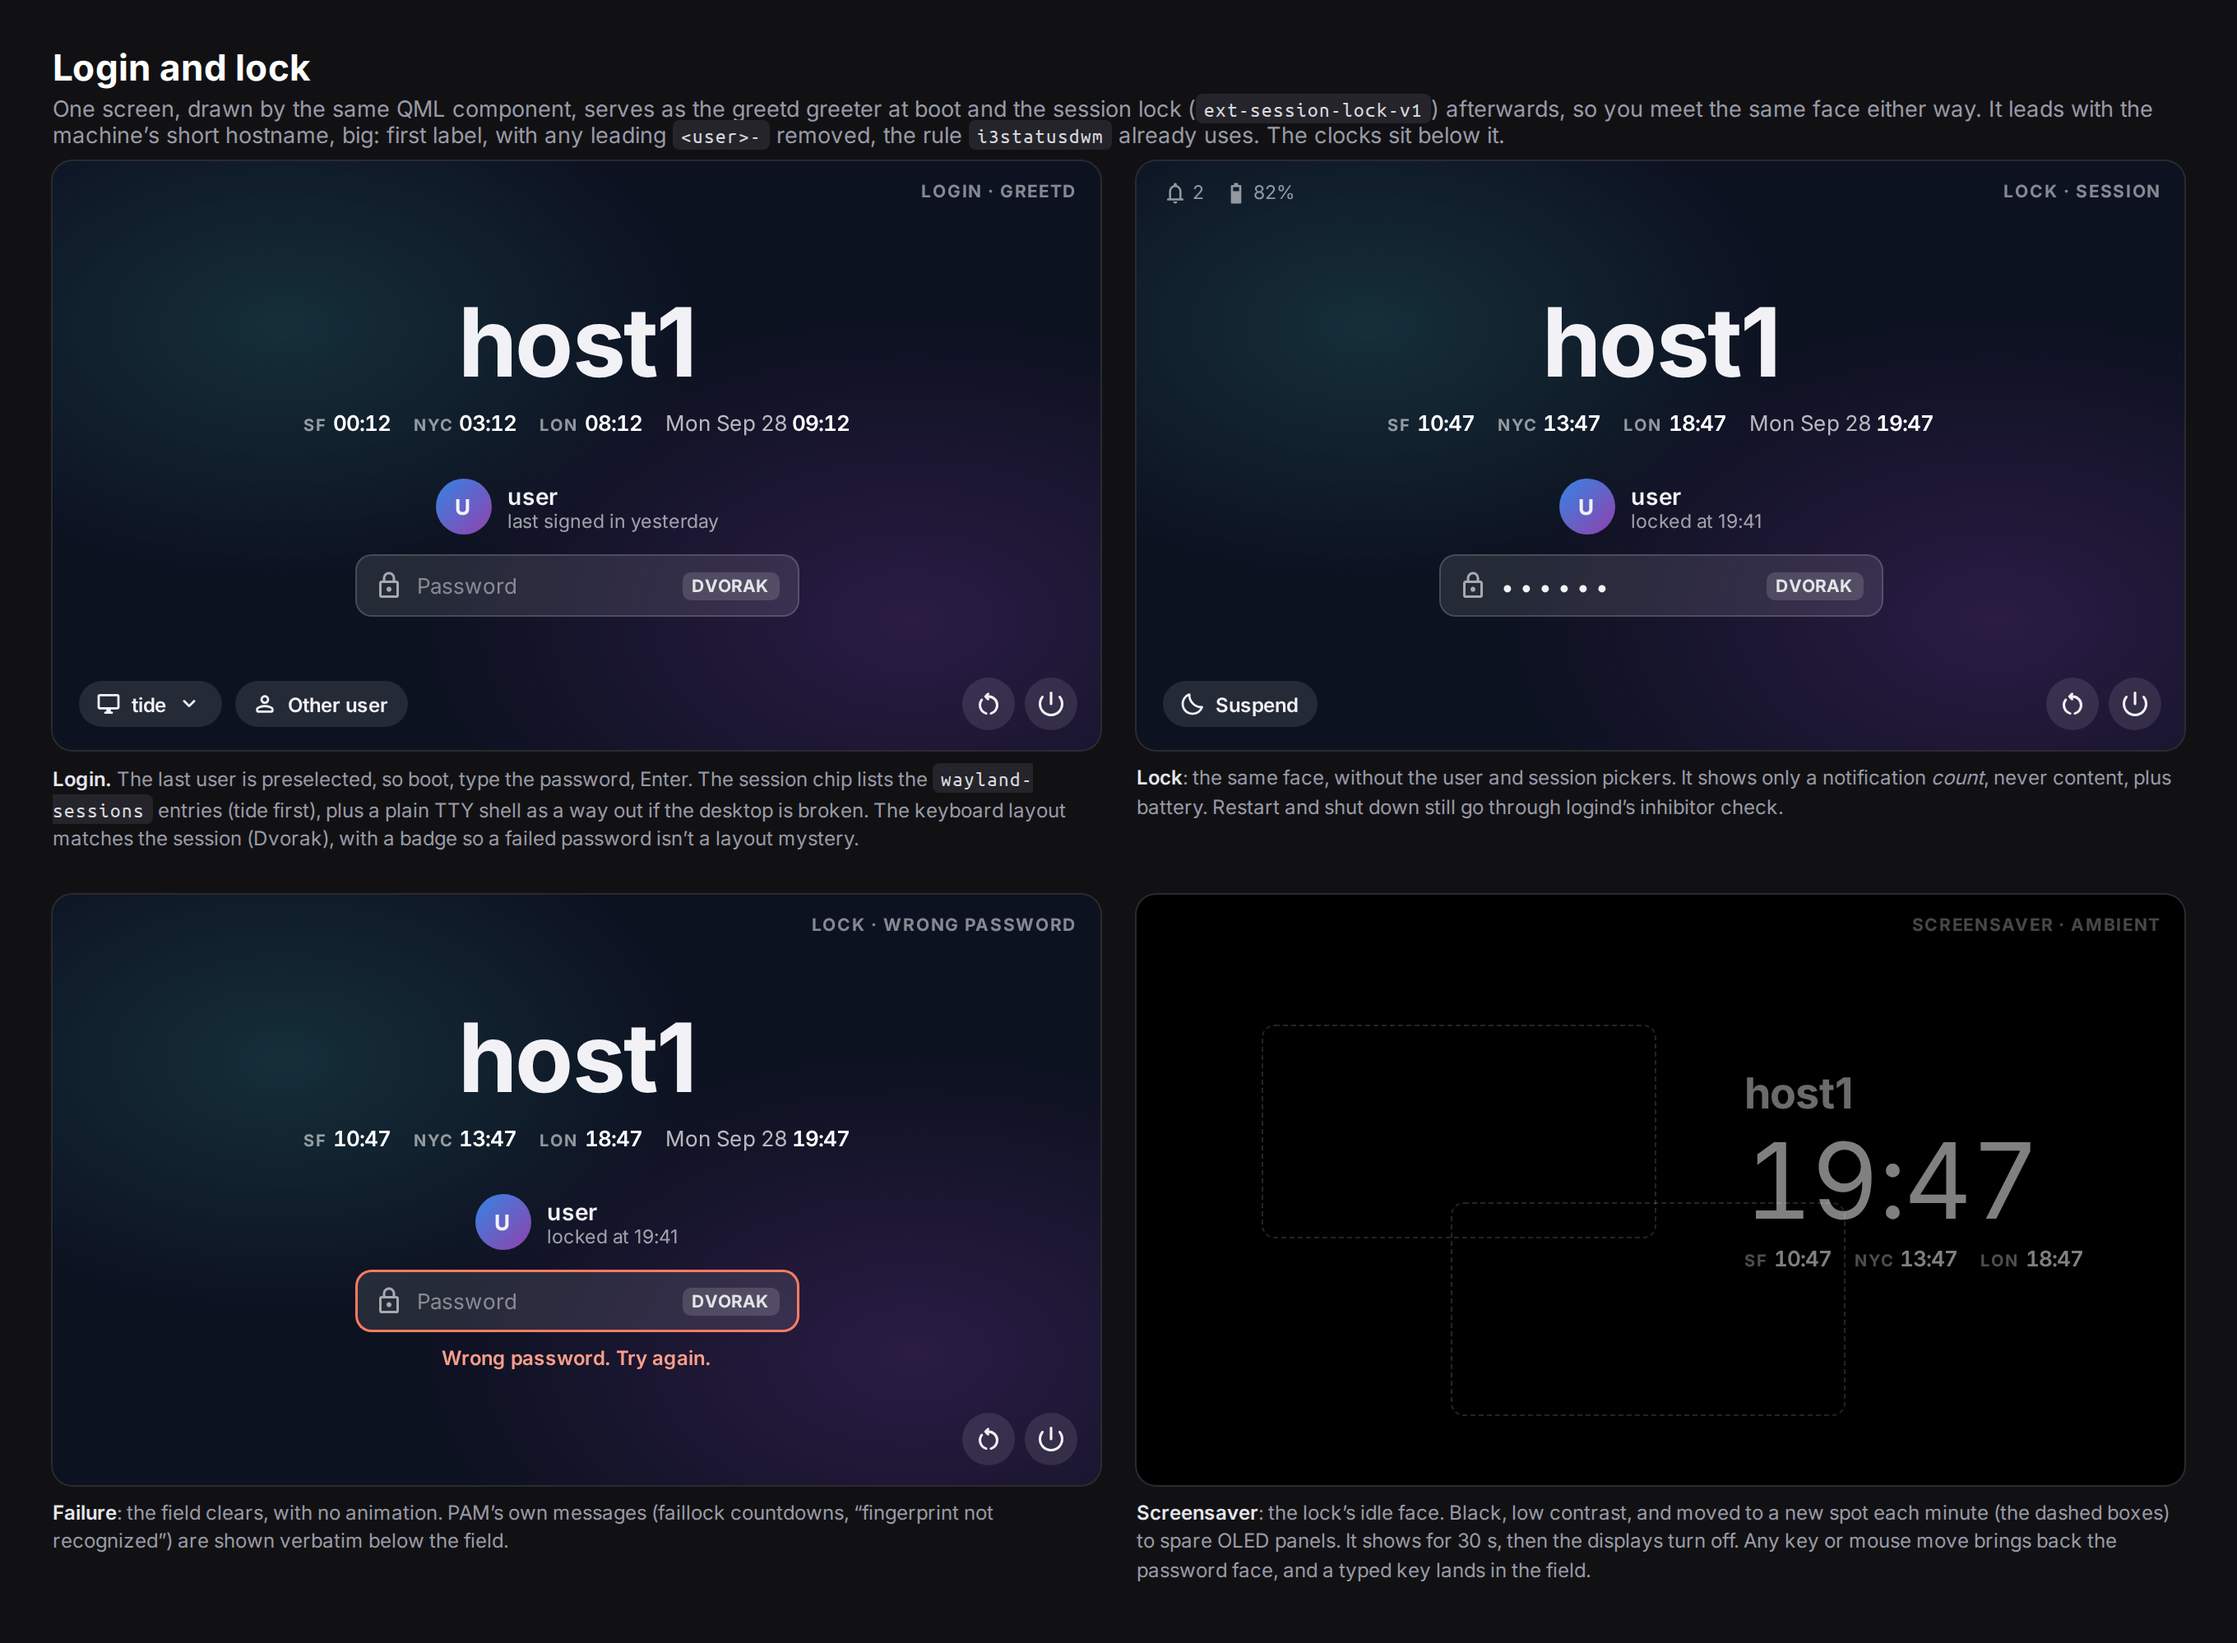
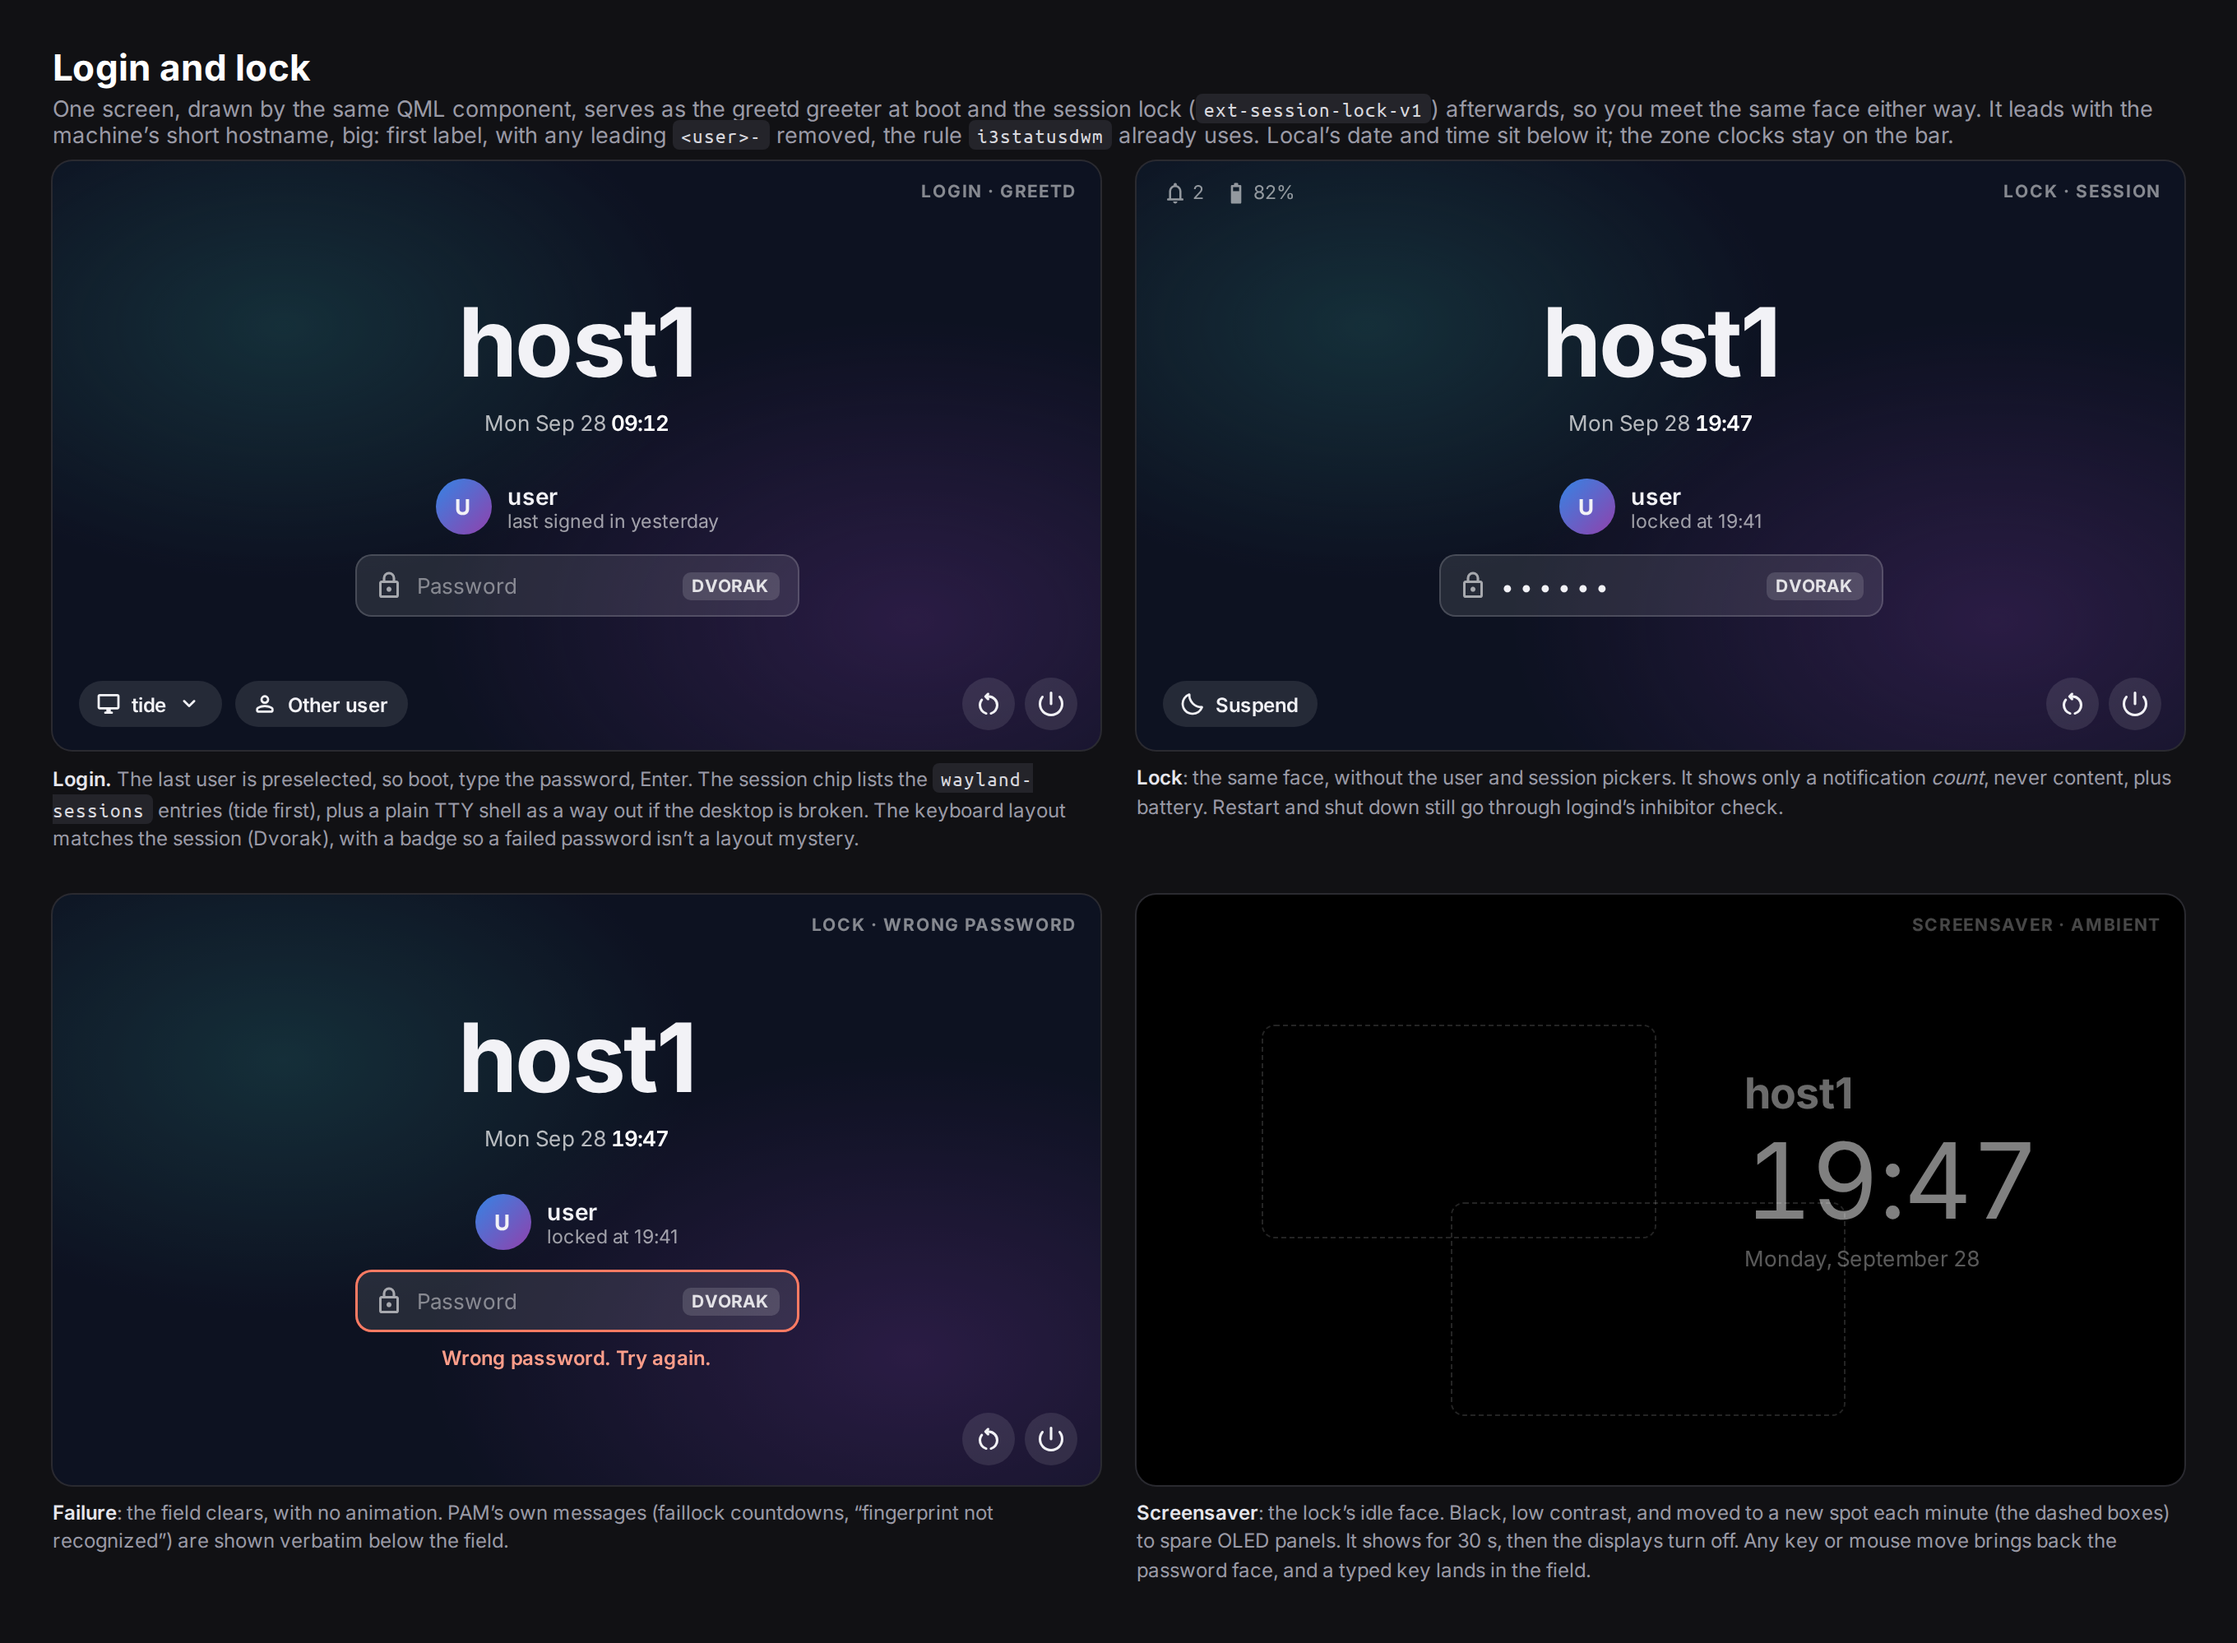
Show only local's date and time on the login and lock screens
The maintainer settled it: the login and lock faces show local's date
and time under the hostname, and the screensaver the date under its
large time, with no zone clocks; the bar has those a click away. SPEC
§10 and docs/mocks/lock.png say so, and TODO.md drops the lock's zone
clocks.

TODO.md also keeps the one finding from the zone-clock work that
outlives it: a clock label with a line break makes the bar's clock two
lines tall, since clocks.json takes any text.

Claude-Session: https://claude.ai/code/session_016cGcSr3njqfmMQHLffEsLN

diff --git a/docs/mocks/lock.html b/docs/mocks/lock.html
@@ -61,14 +61,14 @@
 <body class="sheet" data-width="1360" data-scale="2">
 
 <h1>Login and lock</h1>
-<p class="lede">One screen, drawn by the same QML component, serves as the greetd greeter at boot and the session lock (<code>ext-session-lock-v1</code>) afterwards, so you meet the same face either way. It leads with the machine’s short hostname, big: first label, with any leading <code>&lt;user&gt;-</code> removed, the rule <code>i3statusdwm</code> already uses. The clocks sit below it.</p>
+<p class="lede">One screen, drawn by the same QML component, serves as the greetd greeter at boot and the session lock (<code>ext-session-lock-v1</code>) afterwards, so you meet the same face either way. It leads with the machine’s short hostname, big: first label, with any leading <code>&lt;user&gt;-</code> removed, the rule <code>i3statusdwm</code> already uses. Local’s date and time sit below it; the zone clocks stay on the bar.</p>
 
 <div class="faces">
   <div>
     <div class="face">
       <span class="tag">Login · greetd</span>
       <div class="host">host1</div>
-      <div class="fclocks"><span><span class="tz">SF</span><b>00:12</b></span><span><span class="tz">NYC</span><b>03:12</b></span><span><span class="tz">LON</span><b>08:12</b></span><span>Mon Sep 28 <b>09:12</b></span></div>
+      <div class="fclocks"><span>Mon Sep 28 <b>09:12</b></span></div>
       <div class="who"><span class="av">U</span><div><div class="n">user</div><div class="s">last signed in yesterday</div></div></div>
       <div class="pw"><i class="ms">lock</i><span style="color:rgba(255,255,255,.45);letter-spacing:0;font-size:13px">Password</span><span class="kb">DVORAK</span></div>
       <div class="sess"><span class="chipx"><i class="ms">desktop_windows</i>tide<i class="ms">expand_more</i></span><span class="chipx"><i class="ms">person</i>Other user</span></div>
@@ -82,7 +82,7 @@
       <span class="tag">Lock · session</span>
       <div class="corner"><span><i class="ms">notifications</i> 2</span><span><i class="ms fill">battery_5_bar</i> 82%</span></div>
       <div class="host">host1</div>
-      <div class="fclocks"><span><span class="tz">SF</span><b>10:47</b></span><span><span class="tz">NYC</span><b>13:47</b></span><span><span class="tz">LON</span><b>18:47</b></span><span>Mon Sep 28 <b>19:47</b></span></div>
+      <div class="fclocks"><span>Mon Sep 28 <b>19:47</b></span></div>
       <div class="who"><span class="av">U</span><div><div class="n">user</div><div class="s">locked at 19:41</div></div></div>
       <div class="pw"><i class="ms">lock</i><span>••••••</span><span class="kb">DVORAK</span></div>
       <div class="sess"><span class="chipx"><i class="ms">bedtime</i>Suspend</span></div>
@@ -95,7 +95,7 @@
     <div class="face">
       <span class="tag">Lock · wrong password</span>
       <div class="host">host1</div>
-      <div class="fclocks"><span><span class="tz">SF</span><b>10:47</b></span><span><span class="tz">NYC</span><b>13:47</b></span><span><span class="tz">LON</span><b>18:47</b></span><span>Mon Sep 28 <b>19:47</b></span></div>
+      <div class="fclocks"><span>Mon Sep 28 <b>19:47</b></span></div>
       <div class="who"><span class="av">U</span><div><div class="n">user</div><div class="s">locked at 19:41</div></div></div>
       <div class="pw err"><i class="ms">lock</i><span style="letter-spacing:0;font-size:13px;color:rgba(255,255,255,.45)">Password</span><span class="kb">DVORAK</span></div>
       <div class="errmsg">Wrong password. Try again.</div>
@@ -112,7 +112,7 @@
       <div class="blk">
         <div class="host">host1</div>
         <div class="big">19:47</div>
-        <div class="fclocks"><span><span class="tz">SF</span><b>10:47</b></span><span><span class="tz">NYC</span><b>13:47</b></span><span><span class="tz">LON</span><b>18:47</b></span></div>
+        <div class="fclocks">Monday, September 28</div>
       </div>
     </div>
     <div class="cap"><b>Screensaver</b>: the lock’s idle face. Black, low contrast, and moved to a new spot each minute (the dashed boxes) to spare OLED panels. It shows for 30&nbsp;s, then the displays turn off. Any key or mouse move brings back the password face, and a typed key lands in the field.</div>

diff --git a/TODO.md b/TODO.md
@@ -187,6 +187,10 @@ packaged). It also runs
 The Quickshell bar replaces waybar piece by piece (SPEC.md §7), each piece
 tested where it can be without a live session.
 
+- A clock label with a line break makes the bar's clock two lines tall:
+  `clocks.json` takes any text. Reject breaks in `parseClocks`, naming the
+  entry like any other bad setting (found reviewing #117).
+
 - Keep awake (SPEC.md §10) is the bar toggle, and it also holds while the
   mic is live: an app's capture stream with an active PipeWire link from a
   microphone (`shell/MicData.qml`, `shell/lib/mic.mjs`), the same signal
@@ -440,8 +444,7 @@ an idle lock opens on (`tide idle-lock`). Only parsed with `qmlformat` and
 - On a real session, check the screensaver: an idle lock opens on it, the
   first pointer report doesn't wake it but a move does, and the first key
   lands in the field.
-- The zone clocks under the hostname and on the screensaver, and the
-  notification count in the corner, as the mock shows.
+- The notification count in the corner, as the mock shows.
 - On a real session, check Suspend, Restart and Shut down from the lock,
   and that an inhibitor's name shows instead of the action going through.
 - The keyboard layout badge by the field.

diff --git a/SPEC.md b/SPEC.md
@@ -998,7 +998,7 @@ today's `hypridle.conf`:
 
 **The screensaver** is the lock's idle face, not a separate program:
 
-- a black screen with the hostname, a large time and the zone clocks in low
+- a black screen with the hostname, a large time and the date in low
   contrast;
 - it moves to a new spot each minute to spare OLED panels;
 - any input brings back the password face, and a typed key lands in the
@@ -1126,7 +1126,9 @@ one of them:
   modes ([`lock.png`](docs/mocks/lock.png)).
 - **Hostname.** It leads with the short hostname: the first label, with a
   leading `<user>-` removed, the same rule as `i3statusdwm`.
-- **Clocks** sit below the hostname.
+- **Local's date and time** sit below the hostname. No zone clocks: the
+  bar has them a click away, and the login and lock faces stay simple
+  (maintainer, 2026-10-05).
 - **Greeter extras:**
   - the last user is preselected, with a user picker;
   - a session chip lists the `wayland-sessions` entries (tide first),
